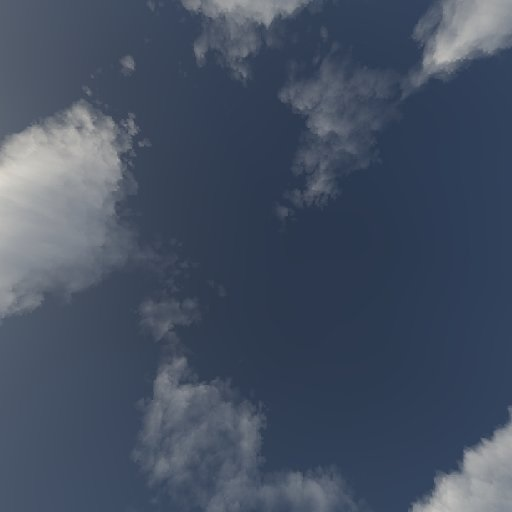
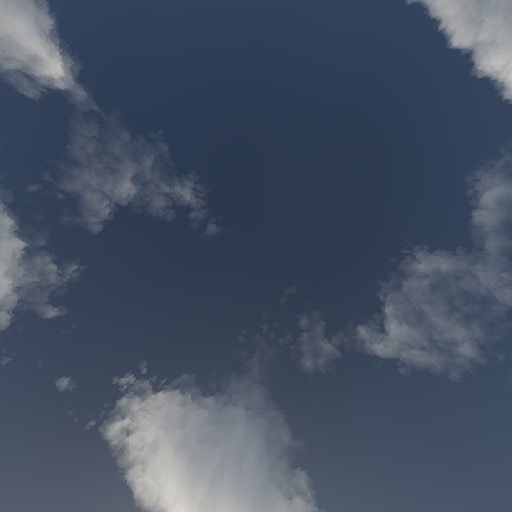
[FIX] Skybox sample works properly | All samples (except for shadow mapping) work properly (TESTED) - ShadowMapping sample needs a slightly different shader for the ground. The   reason for not updating yet is to avoid this altogether and come up with a   better solution in the engine.

diff --git a/src/tlocSkyBox/main.cpp b/src/tlocSkyBox/main.cpp
@@ -85,6 +85,11 @@ int TLOC_MAIN(int, char**)
   gfx_rend::renderer_sptr linesRenderer = 
     core_sptr::MakeShared<gfx_rend::Renderer>(pNoDepth);
 
+  auto skyBoxRenParams = renderer->GetParams();
+  skyBoxRenParams.SetDepthFunction<gfx_rend::p_renderer::depth_function::LessEqual>();
+
+  auto skyBoxRenderer = core_sptr::MakeShared<gfx_rend::Renderer>(skyBoxRenParams);
+
   renderer->SetParams(p);
 
   //------------------------------------------------------------------------
@@ -119,7 +124,7 @@ int TLOC_MAIN(int, char**)
   meshSys->SetRenderer(renderer);
 
   auto skyBoxSys = ecs.AddSystem<gfx_cs::SkyBoxRenderSystem>();
-  skyBoxSys->SetRenderer(renderer);
+  skyBoxSys->SetRenderer(skyBoxRenderer);
 
   // -----------------------------------------------------------------------
   // Transformation debug rendering
@@ -145,16 +150,16 @@ int TLOC_MAIN(int, char**)
 
   core_str::String skyBoxes[] = 
   { 
-    "/images/skybox/cloudtop_bk.jpg", 
-    "/images/skybox/cloudtop_dn.jpg", 
-    "/images/skybox/cloudtop_ft.jpg", 
-    "/images/skybox/cloudtop_lf.jpg", 
-    "/images/skybox/cloudtop_rt.jpg", 
-    "/images/skybox/cloudtop_up.jpg"
+    "/images/skybox/lake1_rt.jpg", 
+    "/images/skybox/lake1_lf.jpg", 
+    "/images/skybox/lake1_up.jpg",
+    "/images/skybox/lake1_dn.jpg", 
+    "/images/skybox/lake1_bk.jpg", 
+    "/images/skybox/lake1_ft.jpg", 
   };
   
   // gl::Uniform supports quite a few types, including a TextureObject
-  gfx_gl::texture_object_vso toSkyBox;
+  gfx_gl::texture_object_cube_map_vso toSkyBox;
   {
     core_conts::ArrayFixed<gfx_med::image_rgb_sptr, 6> images;
 
@@ -348,7 +353,10 @@ int TLOC_MAIN(int, char**)
 
       renderer->ApplyRenderSettings();
       renderer->Render();
+
       skyBoxSys->ProcessActiveEntities();
+      skyBoxRenderer->ApplyRenderSettings();
+      skyBoxRenderer->Render();
 
       linesRenderer->ApplyRenderSettings();
       dtrSys.ProcessActiveEntities();

diff --git a/src/tlocVersionCheck.cpp b/src/tlocVersionCheck.cpp
@@ -1,2 +1,2 @@
-#define TLOC_VERSION_0_2_15130_1460033133
+#define TLOC_VERSION_0_2_15161_1460058682
 #include "../tlocVersion.h"
